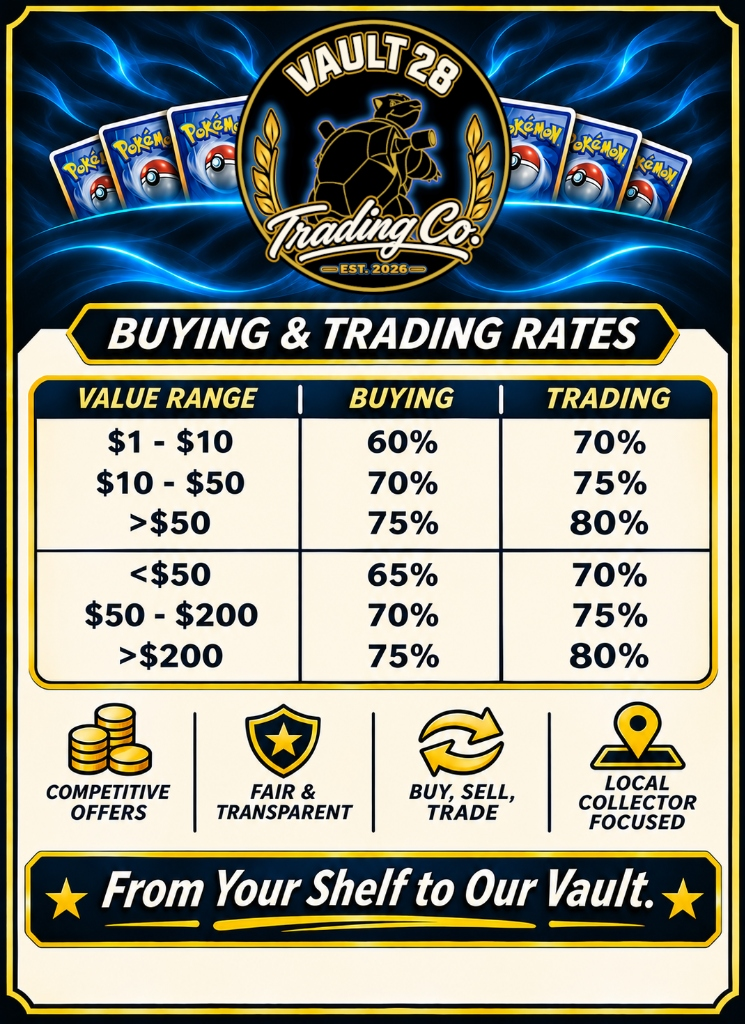
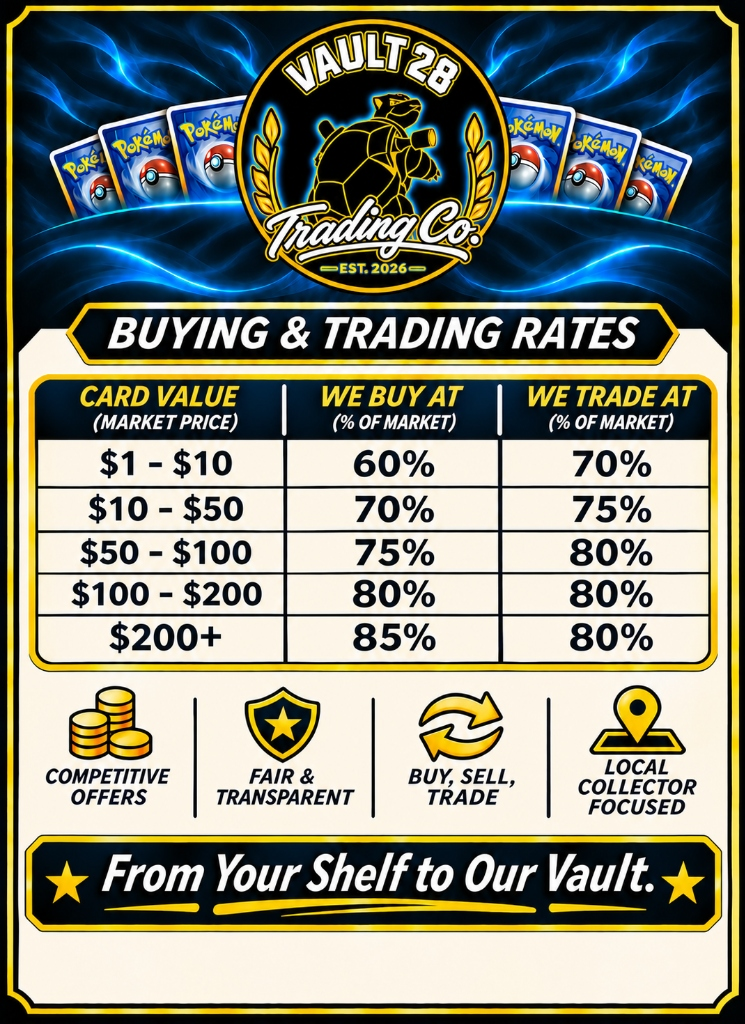
Update buying and trading rates poster and tier breakdown

diff --git a/index.html b/index.html
@@ -6,7 +6,7 @@
     <title>Vault 28 Trading Co. | Buy & Sell Pokémon Card Collections</title>
     <meta name="description" content="Sell your Pokémon card collections — vintage Base Set, WOTC, modern secret rares, sealed products, and complete binders. Based near Summerville, SC. Fast cash offers.">
     <meta name="google-site-verification" content="QYIy_EZy3nVUwvhrjrVTm0CM_KEltQ9HQjpMEuQ2eIw" />
-    <link rel="stylesheet" href="/style.css?v=47">
+    <link rel="stylesheet" href="/style.css?v=48">
     <!-- Browser Tab Icon (Favicon) -->
     <link rel="icon" type="image/png" href="/assets/logo_new.png">
 </head>
@@ -193,22 +193,16 @@
                     We only buy <strong>raw Pok&eacute;mon cards</strong> at the moment. Transparent, competitive rates &mdash; always.
                 </p>
                 <div style="display: flex; justify-content: center; align-items: flex-start; gap: 3rem; flex-wrap: wrap;">
-                    <img src="/assets/buying_rates.jpg" alt="Vault 28 Buying &amp; Trading Rates" class="reveal" style="max-width: 420px; width: 100%; border-radius: 16px; box-shadow: 0 8px 40px rgba(0,0,0,0.5);">
-                    <div style="max-width: 360px; text-align: left;">
+                    <img src="/assets/buying_rates.jpg?v=48" alt="Vault 28 Buying &amp; Trading Rates" class="reveal" style="max-width: 440px; width: 100%; border-radius: 16px; box-shadow: 0 8px 40px rgba(0,0,0,0.5);">
+                    <div style="max-width: 380px; text-align: left;">
                         <div class="glass-card" style="padding: 1.5rem; margin-bottom: 1.25rem;">
-                            <h4 style="font-family: var(--font-title); color: var(--accent-gold); font-size: 1rem; text-transform: uppercase; margin-bottom: 0.5rem;">Singles</h4>
-                            <ul style="color: var(--text-secondary); padding-left: 1.25rem; line-height: 1.9; margin: 0; font-size: 0.95rem;">
-                                <li><strong style="color: var(--text-primary);">\$1&ndash;\$10:</strong> 60% buy / 70% trade</li>
-                                <li><strong style="color: var(--text-primary);">\$10&ndash;\$50:</strong> 70% buy / 75% trade</li>
-                                <li><strong style="color: var(--text-primary);">&gt;\$50:</strong> 75% buy / 80% trade</li>
-                            </ul>
-                        </div>
-                        <div class="glass-card" style="padding: 1.5rem; margin-bottom: 1.25rem;">
-                            <h4 style="font-family: var(--font-title); color: var(--accent-cyan); font-size: 1rem; text-transform: uppercase; margin-bottom: 0.5rem;">Collection Lots</h4>
-                            <ul style="color: var(--text-secondary); padding-left: 1.25rem; line-height: 1.9; margin: 0; font-size: 0.95rem;">
-                                <li><strong style="color: var(--text-primary);">&lt;\$50:</strong> 65% buy / 70% trade</li>
-                                <li><strong style="color: var(--text-primary);">\$50&ndash;\$200:</strong> 70% buy / 75% trade</li>
-                                <li><strong style="color: var(--text-primary);">&gt;\$200:</strong> 75% buy / 80% trade</li>
+                            <h4 style="font-family: var(--font-title); color: var(--accent-gold); font-size: 1rem; text-transform: uppercase; margin-bottom: 0.75rem;">Tier Breakdown (Market Value)</h4>
+                            <ul style="color: var(--text-secondary); padding-left: 1.25rem; line-height: 2; margin: 0; font-size: 0.95rem;">
+                                <li><strong style="color: var(--text-primary);">$1 &ndash; $10:</strong> 60% Buy / 70% Trade</li>
+                                <li><strong style="color: var(--text-primary);">$10 &ndash; $50:</strong> 70% Buy / 75% Trade</li>
+                                <li><strong style="color: var(--text-primary);">$50 &ndash; $100:</strong> 75% Buy / 80% Trade</li>
+                                <li><strong style="color: var(--text-primary);">$100 &ndash; $200:</strong> 80% Buy / 80% Trade</li>
+                                <li><strong style="color: var(--text-primary);">$200+:</strong> 85% Buy / 80% Trade</li>
                             </ul>
                         </div>
                         <div style="display: flex; gap: 0.75rem; flex-wrap: wrap;">
@@ -345,7 +339,7 @@
 
                 <!-- Rates Image -->
                 <div class="reveal" style="text-align: center; margin-bottom: 2.5rem;">
-                    <img src="/assets/buying_rates.jpg" alt="Vault 28 Trading Co. Buying &amp; Trading Rates" style="max-width: 480px; width: 100%; border-radius: 16px; box-shadow: 0 8px 40px rgba(0,0,0,0.5);">
+                    <img src="/assets/buying_rates.jpg?v=48" alt="Vault 28 Trading Co. Buying &amp; Trading Rates" style="max-width: 480px; width: 100%; border-radius: 16px; box-shadow: 0 8px 40px rgba(0,0,0,0.5);">
                 </div>
 
                 <!-- Contact Cards -->
@@ -1720,6 +1714,6 @@ const firebaseConfig = {
     <script src="https://www.gstatic.com/firebasejs/10.8.0/firebase-auth-compat.js"></script>
     <script src="https://www.gstatic.com/firebasejs/10.8.0/firebase-firestore-compat.js"></script>
 
-    <script src="/app.js?v=47"></script>
+    <script src="/app.js?v=48"></script>
 </body>
 </html>
